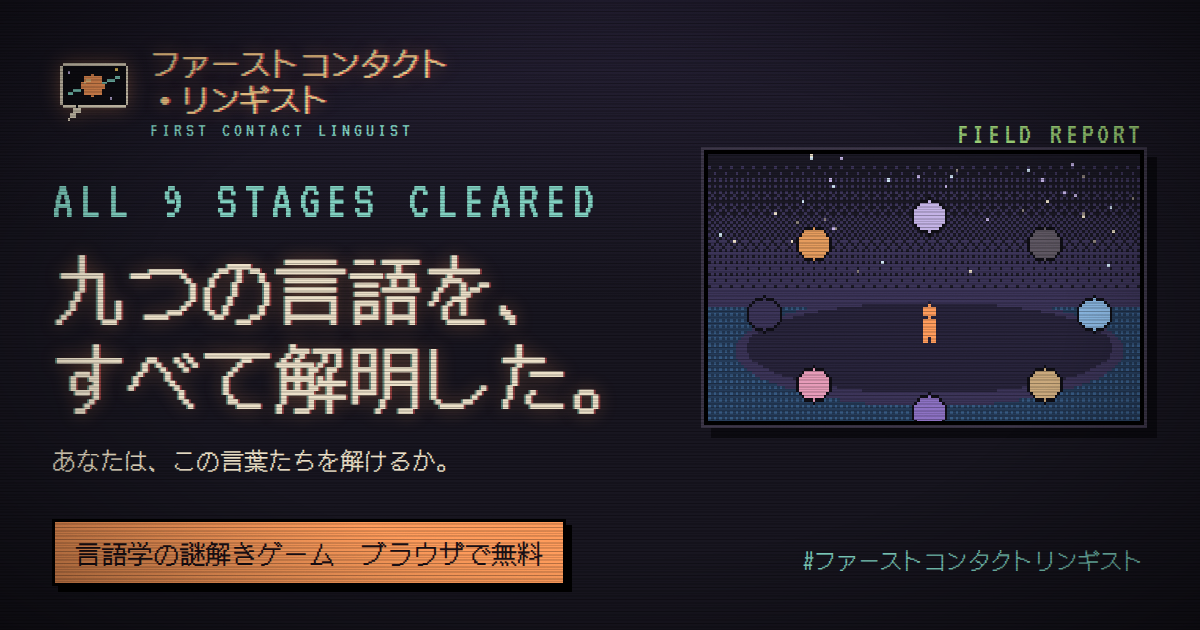
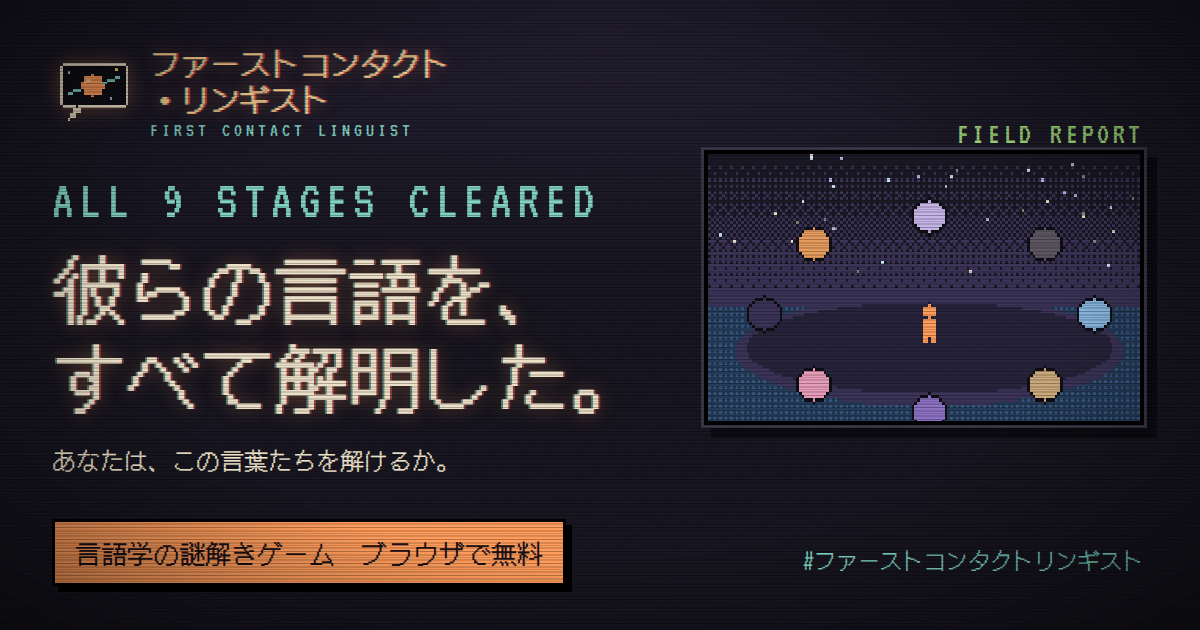
Add files via upload

Changed region(s): [[0.0308, 0.3921, 0.185, 0.5429]]

diff --git a/index.html b/index.html
@@ -741,7 +741,7 @@ const HASHTAG='#ファーストコンタクトリンギスト';
 const FLAVOR=['ミミクの三つの言葉の意味が分かった瞬間、声が出た。','千年を生きる岩と、挨拶を交わした。','群れの前で、口をすべらせずに済んだ。','浜辺の取引を、最後までやり遂げた。','願いを叶える輪から、月を守った。','香りの部屋で、約束を結んだ。','探査機との問答を、生き延びた。','カナルとの会話が、いちばん怖かった。','橋を架ける者は、ここにいた。'];
 function totalFails(){return Object.values(G.prog.fails||{}).reduce((a,b)=>a+(+b||0),0);}
 function stageShareText(i){const f=G.prog.fails[i]||0;return `STAGE ${i+1}「${STAGES[i].title}」解明（${f?`失敗${f}回`:'ノーミス'}）。\n${FLAVOR[i]}\n\n言葉の通じない来訪者と対話する、言語学の謎解きゲーム\n${HASHTAG}`;}
-function finalShareText(){const f=totalFails();return `言葉の通じない8つの来訪者と、身振りと贈り物と香りと素数で対話した。\n9つの言語、すべて解明（失敗${f}回）。\n\n言語学の謎解きゲーム、全9ステージ。\n${HASHTAG}`;}
+function finalShareText(){const f=totalFails();return `言葉の通じない来訪者と、身振りや贈り物や香りや素数で対話した。\n彼らの言語、すべて解明（失敗${f}回）。\n\n言語学の謎解きゲーム、全9ステージ。\n${HASHTAG}`;}
 function shareBlock(text,big,link){
   link=link||SHARE_URL;const url='https://twitter.com/intent/tweet?text='+encodeURIComponent(text)+'&url='+encodeURIComponent(link);
   return `<div class="card share ${big?'big':''}"><div class="lbl">${big?'全クリおめでとう。よかったら、SNSでシェアしてください':'よかったら、SNSでシェアしてください'}</div>
@@ -793,7 +793,7 @@ function profile(){
   const rows=idx.map(i=>({i,cls:!G.prog.cleared[i]?'no':F(i)?'re':'ok',mark:!G.prog.cleared[i]?'−':F(i)?`○${F(i)}`:'◎'}));
   return {title,desc,cleared,first,fails,obs,bad,time:fmtTime(G.prog.time),s9,lines,rows};
 }
-finalShareText=function(){const P=profile();return `言葉の通じない8つの来訪者と、身振りと贈り物と香りと素数で対話した。\n9つの言語、すべて解明（失敗${P.fails}回・一度で解明${P.first}/9）。\nわたしの調査記録に残った称号は《${P.title}》。\n\n言語学の謎解きゲーム、全9ステージ。\n${HASHTAG}`;};
+finalShareText=function(){const P=profile();return `言葉の通じない来訪者と、身振りや贈り物や香りや素数で対話した。\n彼らの言語、すべて解明（失敗${P.fails}回・一度で解明${P.first}/9）。\nわたしの調査記録に残った称号は《${P.title}》。\n\n言語学の謎解きゲーム、全9ステージ。\n${HASHTAG}`;};
 /* ---- 1200x675 card for X ---- */
 let CARD_URL='';
 async function buildResultCard(){
